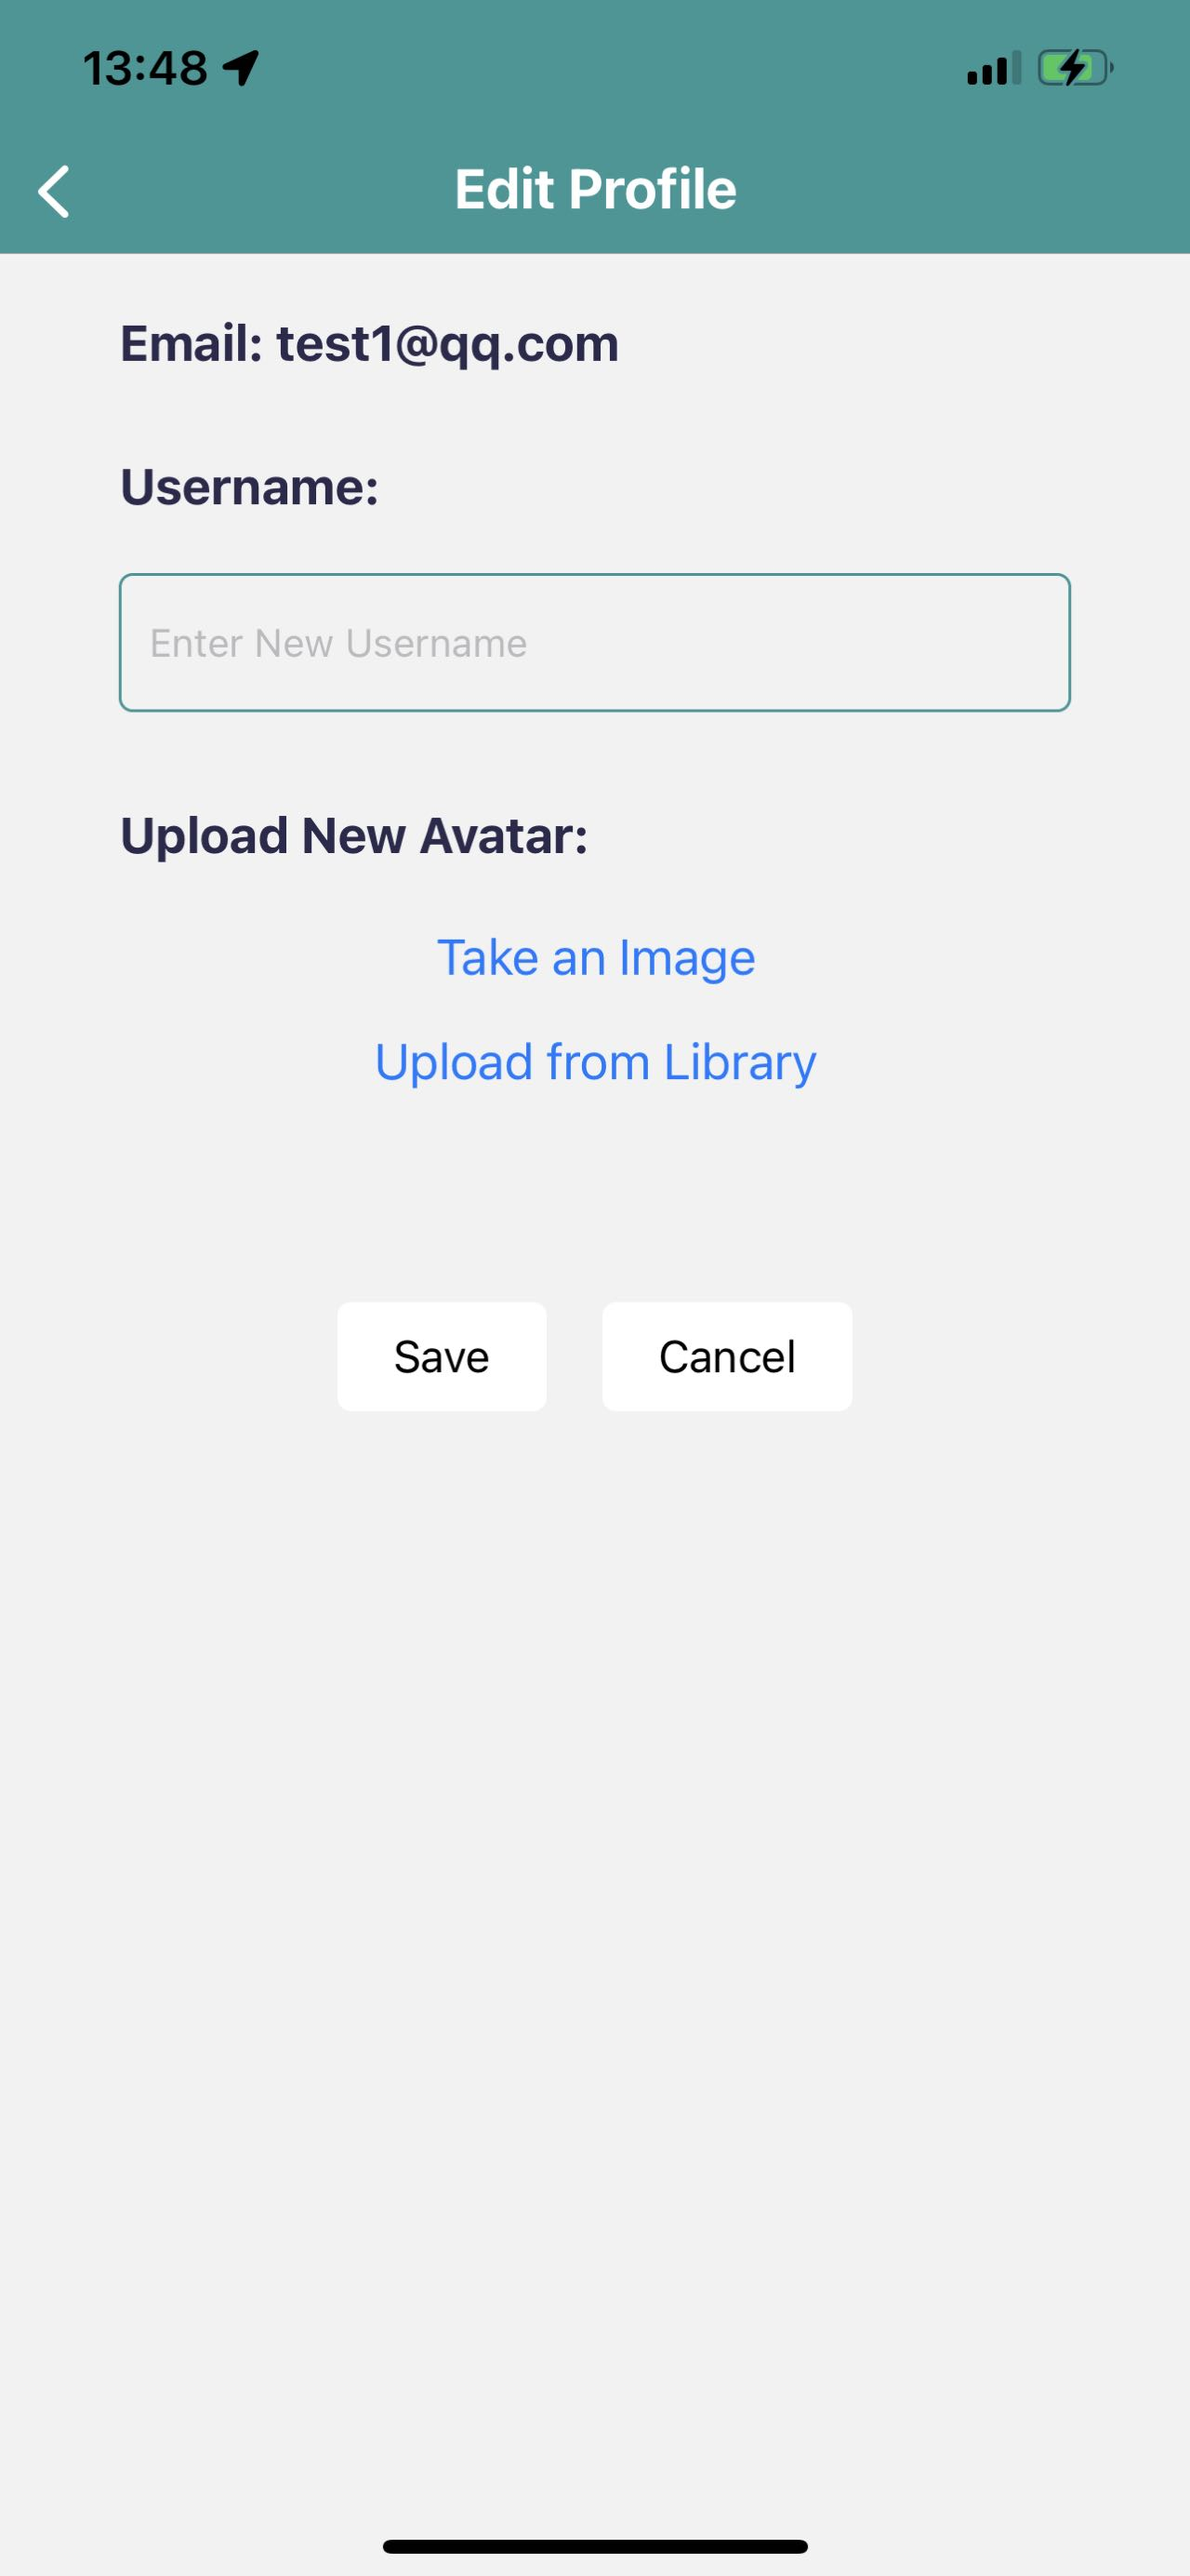
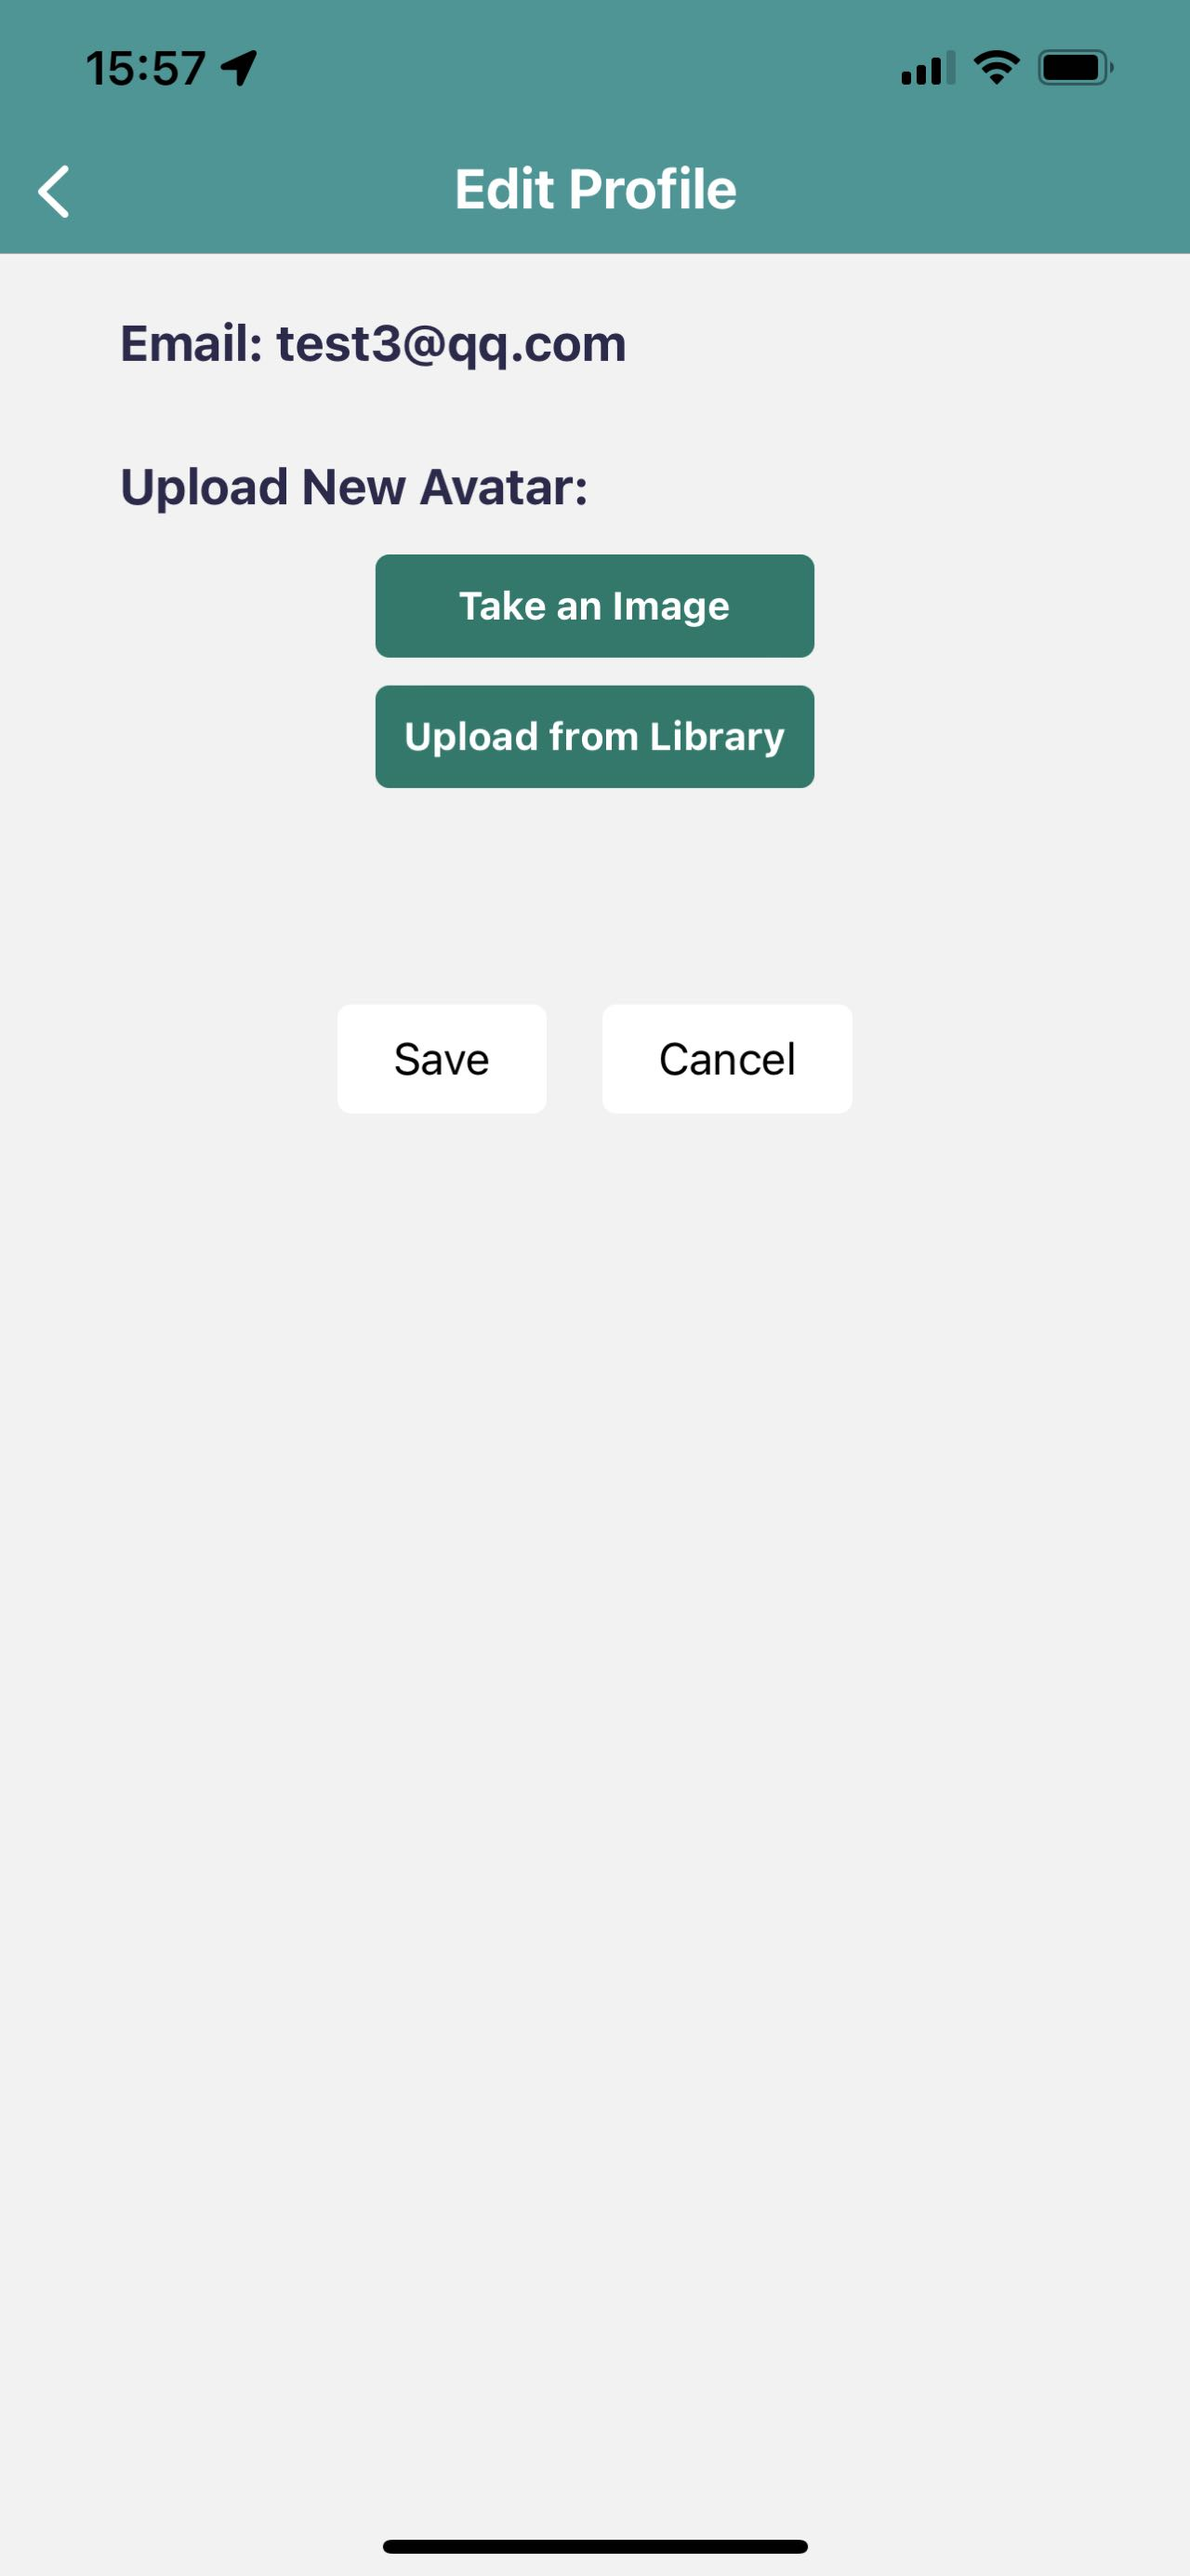
update readme

diff --git a/README.md b/README.md
@@ -10,7 +10,7 @@
 3. Notification 
 4. External API use
 
-##    Iteration 2: Overall Stucture, Navigation, and Basis of CRUD Operations to Firestore
+##    Iteration 2: Authentication, Location use, Notification and External API use
 ###    Data Modal and Collections:
 ####   1. Users Collection (Contribution: Jiawei Zhou):
 This is a top-level collection. Each document in the Users collection represents a user of our application. It has these fields:
@@ -18,7 +18,6 @@ This is a top-level collection. Each document in the Users collection represents
 -   "uid": "user_unique_id",
 -   "email": "user@example.com",
 -   "imageUri": "User Profile Image",
--   "username": 'Username, which is set by being extracted before the "@" symbol in an email address'
 
 #### CRUD operations for Users Collection:
 
@@ -46,6 +45,7 @@ This is a top-level collection. Each document in the Products collection represe
 -   "quantity"
 -   "unit"
 -   "image_url"
+-   "prices"
 
 #### CRUD operations for Products Collection:
 1. **Create:**
@@ -54,8 +54,8 @@ This is a top-level collection. Each document in the Products collection represe
 2. **Read:**
    Users can search products by their names. Then a query will be executed and return matched products.
 
-####  3. Prices Collection (Contribution: Liyao Zhang):
-This is a top-level collection. Each document in the Prices collection represents a single price entry. It has these fields:
+####  3. Prices Sub-Collection (Contribution: Liyao Zhang):
+This is a sub collection in Products Collection. Each document in the Prices sub-collection represents a single price entry. It has these fields:
 
 -   "date"
 -   "price"
@@ -75,6 +75,7 @@ This is a top-level collection. Each document in the Prices collection represent
    Users can contribute to the price collection by adding a new price they found in store. However, this operation is not implemented yet.
 
 ### Screens
+### Authentication
 #### Auth Stack Screens (Contribution: Jiawei Zhou):
  <img src="images/screen_images/signup-screen.jpg" alt="Signup" width="200"> <img src="images/screen_images/login-screen.jpg" alt="Login" width="200">
 
@@ -88,13 +89,14 @@ The Auth Stack comprises two primary screens: the Sign Up Screen and the Log In 
 
 The Log In Screen and Sign Up Screen are integrated with Firebase's Admin Authentication API Errors to handle common authentication issues. These screens are designed to display alerts for main errors such as invalid email format, weak password, password mismatch, and other relevant authentication errors as per Firebase's API guidelines.
 
-#### App Stack Screens
+#### App Stack Screens 
+
+### Location use 
 **Home Screen (Contribution: Jiawei Zhou):**  
-**(still under implementation)**  
 
 <img src="images/screen_images/home-screen.jpg" alt="Alt text" width="200">
 
-On the home screen, the top of the screen displays the user's current location, requiring the user to grant permission for our app to access their current location. Following this, users can find a search bar that they can click to navigate to the search screen. Additionally, users will be able to view all grocery categories (still under implementation) and the hot deal banner (also still under implementation). At the bottom, there is a bottom tab for Home, Shopping List, and Profile.
+On the home screen, the top displays the user's current location, requiring permission for our app to access it. Below this, users can find a search bar to navigate to the search screen. Additionally, users can view all grocery categories, each accompanied by a unique category image. Below the category cards is the hot deal banner, which requires manual updates by our team. At the bottom, there are tabs for Home, Shopping List, and Profile.
 
 **Search Screen (Contribution: Liyao Zhang):**
 
@@ -104,27 +106,38 @@ User can search products by their names(exact full name). However, due to limita
 
 **Product Detail Screen (Contribution: Liyao Zhang):**
 
-<img src="images/screen_images/productdetail.png" alt="Alt text" width="200">
+<img src="images/screen_images/productdetail1.jpg" alt="Alt text" width="200"> <img src="images/screen_images/productdetail2.jpg" alt="Alt text" width="200"> 
 
-After tapping on the Product preview card, it will navigate to a product detail screen where more details will be displayed like unit prices, stores, and the option to add product to the shopping list. However, the CRUD operations on user's lists(shopping list, watch list, my contributions) have not been implemented in this iteration due to time constraints. So the Add to List button is not working at the moment.
+After tapping on the product preview card, you will navigate to a product detail screen where more information will be displayed, such as unit prices, stores, price range, and the option to add the product to your shopping list. On the product detail screen, you can click 'More Buying Options' to view different purchasing choices. However, the CRUD operations on user's lists(watch list, my contributions) have not been implemented in this iteration due to time constraints.
+
+<img src="images/screen_images/productdetail3.jpg" alt="Alt text" width="200"> <img src="images/screen_images/productdetail4.jpg" alt="Alt text" width="200"> 
+
+You can also click the 'Add to List' button, which will add the product to the shopping list. If it is added successfully, a popup will appear.
 
 **Feedback Screen (Contribution: Liyao Zhang, Jiawei Zhou):**
+**(still under implementation)**
 
 <img src="images/screen_images/feedback.png" alt="Alt text" width="200">
 
-If users don't agree on the price, they will be navigated to Feedback screen to contribute a new record of price on that product. They need to specify store name, new price and the date they found the price. Similarly, the submit button is currently not working, as it will be implemented in the next iteration.
+If users don't agree on the price, they will be directed to the Feedback screen to contribute a new price record for that product. Users can only submit a new price they found at the same store. They need to specify the new price and the date they found it. Please note that the submit button is currently not operational, as it will be implemented in the next iteration.
+
+**Shopping List Screen (Contribution: Liyao Zhang):**
+
+<img src="images/screen_images/shoppinglist1.jpg" alt="Alt text" width="200"> <img src="images/screen_images/shoppinglist2.jpg" alt="Alt text" width="200"> 
+
+Now let's go to the shopping list screen to check whether the product has been added. We can see that the product has indeed been added to the shopping list. On the shopping list screen, you can increase the quantity by pressing the '+' button or decrease it by pressing the '-' button. You can also remove this product from your shopping list by tapping the 'trash' icon.
 
 **Profile Screen (Contribution: Jiawei Zhou):**  
 
 <img src="images/screen_images/profile-screen1.jpg" alt="Alt text" width="200">
 
-The Profile Screen presents the user's profile information. Upon initial registration and login, if no profile image is uploaded, a default profile image is utilized. Below the profile image, there is a place to display the user's email address. Moreover, users have the option to click on "Edit Profile" on the Profile Screen to modify their profile, which includes updating their profile image. Additionally, users can access "My Watch List" (still under implementation) and "My Contributions" (also still under implementation) by tapping on the respective options. In the top right corner of the profile screen, there's an icon to logout and return to the signup screen.
+The Profile Screen presents the user's profile information. Upon initial registration and login, if no profile image is uploaded, a default profile image is utilized. Below the profile image, there is a place to display the user's email address. Moreover, users have the option to click on "Edit Profile" on the Profile Screen to modify their profile, which includes updating their profile image. Additionally, users can access "My Watch List" (still under implementation) and "My Contributions" (also still under implementation) by tapping on the respective options. Users can also access 'Schedule a Notification' to schedule a notification for shopping. In the top right corner of the profile screen, there's an icon to logout and return to the signup screen.
 
 **Edit Profile Screen (Contribution: Jiawei Zhou):**  
 
 <img src="images/screen_images/edit-profile1.jpg" alt="Alt text" width="200">
 
-The Edit Profile Screen presents the current user's email information at the top. Below, there is a section where users can upload their username (still under implementation). Additionally, users have the option to upload their profile image by either taking a photo using their device's camera or uploading from their device's local photo library.
+The Edit Profile Screen presents the current user's email information at the top. Below, users have the option to upload their profile image by either taking a photo using their device's camera or uploading from their device's local photo library.
 
 <img src="images/screen_images/edit-profile2.jpg" alt="Alt text" width="200"> <img src="images/screen_images/edit-profile3.jpg" alt="Alt text" width="200">
 
@@ -138,9 +151,9 @@ After saving the changes, users can view the updated profile picture on the Prof
 
 After clicking on the trash bin icon located at the bottom right corner of the profile picture, users can delete their current profile picture. Subsequently, the profile picture will revert to the default profile image. Additionally, the trash bin icon will disappear since the user no longer has an uploaded profile image associated with their account.
 
-**Map Screen**
+**Map Screen (Contribution: Jiawei Zhou):**
 
-Location Use (Contribution: Jiawei Zhou):
+### Location Use and External API Use
 
 <img src="images/screen_images/map1.png" alt="Alt text" width="200"> <img src="images/screen_images/map2.jpg" alt="Alt text" width="200">
 
@@ -151,3 +164,11 @@ To access the map screen, you need to go to the main page and click on the map i
 When you click the red marker, it will display information about the supermarket's name and location at the bottom. Additionally, the supermarket name will appear above the red marker. You can also notice a button labeled "Navigate" in the bottom supermarket information window. If you click this button, it will direct you to the Google Maps app on your phone and assist you in navigating to the selected supermarket location.
 
 <img src="images/screen_images/map5.jpg" alt="Alt text" width="200">
+
+Here we use the Google Location API as the external API:
+
+```
+ const response = await fetch(
+        `https://maps.googleapis.com/maps/api/place/nearbysearch/json?location=${lat},${lng}&radius=2000&type=supermarket&key=${GOOGLE_MAPS_API_KEY}`
+      );
+```
